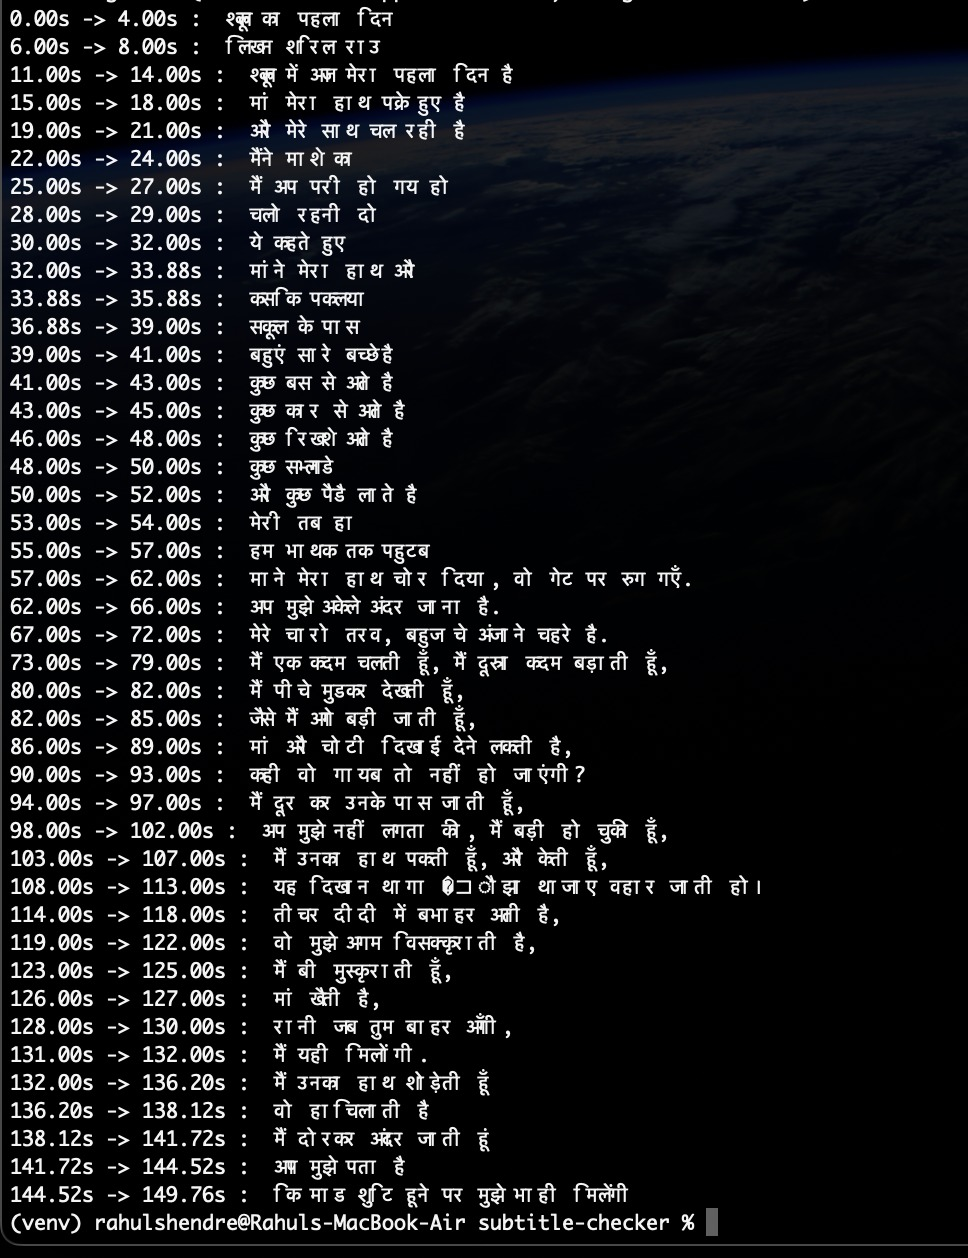
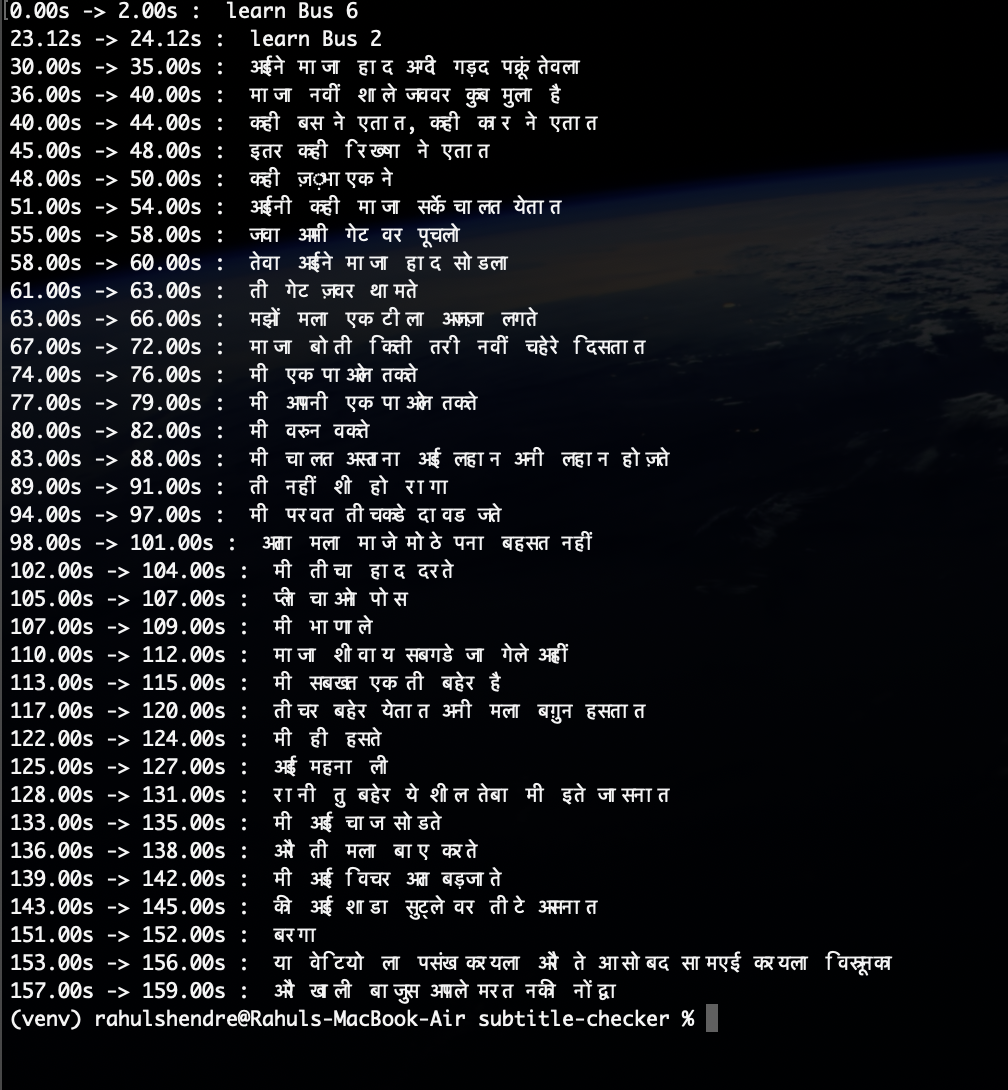
feat- marathi support added

Changed region(s): [[0.0, 0.0, 1.0, 0.9982], [0.9607, 0.2495, 1.0, 0.3119], [0.8988, 0.2807, 0.9298, 0.3119]]

diff --git a/report.py b/report.py
@@ -14,12 +14,12 @@ def normalize(text):
     return re.sub(r'\s+', ' ', text).strip()
 
 
-video = cv2.VideoCapture("test_vid.mp4")
+video = cv2.VideoCapture("test_vid_marathi.mp4")
 fps = video.get(cv2.CAP_PROP_FPS)
 
 print("Transcribing audio...")
 model = whisper.load_model("small")
-result = model.transcribe("test_vid.mp4", language="hi", temperature=0)
+result = model.transcribe("test_vid_marathi.mp4", language="mr")
 segments = [s for s in result["segments"] if (s["end"] - s["start"]) >= 1.5]
 print(f"Found {len(segments)} segments\n")
 
@@ -45,9 +45,9 @@ for i, seg in enumerate(segments):
 
     gray = cv2.cvtColor(subtitle_region, cv2.COLOR_BGR2GRAY)
     _, thresh = cv2.threshold(gray, 150, 255, cv2.THRESH_BINARY)
-    ocr_text = pytesseract.image_to_string(thresh, lang='hin').strip()
+    ocr_text = pytesseract.image_to_string(thresh, lang='mar').strip()
     score = fuzz.token_set_ratio(normalize(audio_text), normalize(ocr_text)) / 100
-    status = "OK" if score >= 0.6 else "REVIEW"
+    status = "OK" if score >= 0.5 else "REVIEW"
 
     results.append({
         "start": start,

diff --git a/checker.py b/checker.py
@@ -13,12 +13,12 @@ def normalize(text):
     return re.sub(r'\s+', ' ', text).strip()
 
 
-video = cv2.VideoCapture("test_vid.mp4")
+video = cv2.VideoCapture("test_vid_marathi.mp4")
 fps = video.get(cv2.CAP_PROP_FPS)
 
 print("Transcribing audio...")
 model = whisper.load_model("small")
-result = model.transcribe("test_vid.mp4", language="hi", temperature=0)
+result = model.transcribe("test_vid_marathi.mp4", language="mr")
 segments = [s for s in result["segments"] if (s["end"] - s["start"]) >= 1.5]
 print(f"Found {len(segments)} segments\n")
 
@@ -44,7 +44,7 @@ for i, seg in enumerate(segments):
 
     gray = cv2.cvtColor(subtitle_region, cv2.COLOR_BGR2GRAY)
     _, thresh = cv2.threshold(gray, 150, 255, cv2.THRESH_BINARY)
-    ocr_text = pytesseract.image_to_string(thresh, lang='hin').strip()
+    ocr_text = pytesseract.image_to_string(thresh, lang='mar').strip()
 
     score = fuzz.token_set_ratio(normalize(audio_text), normalize(ocr_text)) / 100
     status = "OK" if score >= 0.5 else "REVIEW"

diff --git a/ocr_frame.py b/ocr_frame.py
@@ -1,7 +1,7 @@
 import cv2 
 import pytesseract
 
-video = cv2.VideoCapture("test_vid.mp4")
+video = cv2.VideoCapture("test_vid_marathi.mp4")
 fps = video.get(cv2.CAP_PROP_FPS)
 print(f"video FPS : {fps}")
 
@@ -21,8 +21,8 @@ if success:
     cv2.imwrite("subtitle_crop.png", subtitle_region)
     print("saved subtitle_crop.png - open this to see what we cropped")
 
-    ##hindi OCR
-    text = pytesseract.image_to_string(subtitle_region, lang='hin')
+    ##marathi OCR
+    text = pytesseract.image_to_string(subtitle_region, lang='mar')
     print(f"OCR result: '{text.strip()}'")
 
 else:

diff --git a/transcribe.py b/transcribe.py
@@ -1,7 +1,7 @@
 import whisper
 
 model = whisper.load_model("small")
-result = model.transcribe("test_vid.mp4", language = "hi")
+result = model.transcribe("test_vid_marathi.mp4", language="mr")
 
 
 for segment in result["segments"]:

diff --git a/README.md b/README.md
@@ -4,15 +4,15 @@ Detects mismatches between spoken audio and burned-in subtitles in video files.
 
 Built as a prototype for [PlanetRead](https://planetread.org) C4GT DMP 2026.
 
-## Video used 
+## Video used
 
-[![Video used](https://img.youtube.com/vi/PmM5Fy3RLkc/0.jpg)](https://www.youtube.com/watch?v=PmM5Fy3RLkc)
+[![Video used](https://img.youtube.com/vi/NAVCK3VWzV0/0.jpg)](https://www.youtube.com/watch?v=NAVCK3VWzV0&t=4s)
 
 ## Pipeline
 
 1. Transcribes audio with Whisper
 2. Captures subtitle region from video frames with OpenCV
-3. Reads subtitle text with Tesseract OCR (Hindi)
+3. Reads subtitle text with Tesseract OCR (Marathi)
 4. Compares both texts with RapidFuzz and flags mismatches
 
 ## Screenshots
@@ -31,7 +31,7 @@ Built as a prototype for [PlanetRead](https://planetread.org) C4GT DMP 2026.
 
 ## Setup
 
-You need **Python 3.9+** and **Tesseract OCR** with **Hindi** language data (`hin`).
+You need **Python 3.9+** and **Tesseract OCR** with **Marathi** language data (`mar`).
 
 ### Tesseract — macOS
 
@@ -41,7 +41,7 @@ brew install tesseract tesseract-lang
 
 ### Tesseract — Windows
 
-Install from [UB Mannheim](https://github.com/UB-Mannheim/tesseract/wiki) or run `winget install --id UB-Mannheim.TesseractOCR`. Enable Hindi during install and keep Tesseract on your PATH.
+Install from [UB Mannheim](https://github.com/UB-Mannheim/tesseract/wiki) or run `winget install --id UB-Mannheim.TesseractOCR`. Enable Marathi during install and keep Tesseract on your PATH.
 
 ### Python dependencies
 
